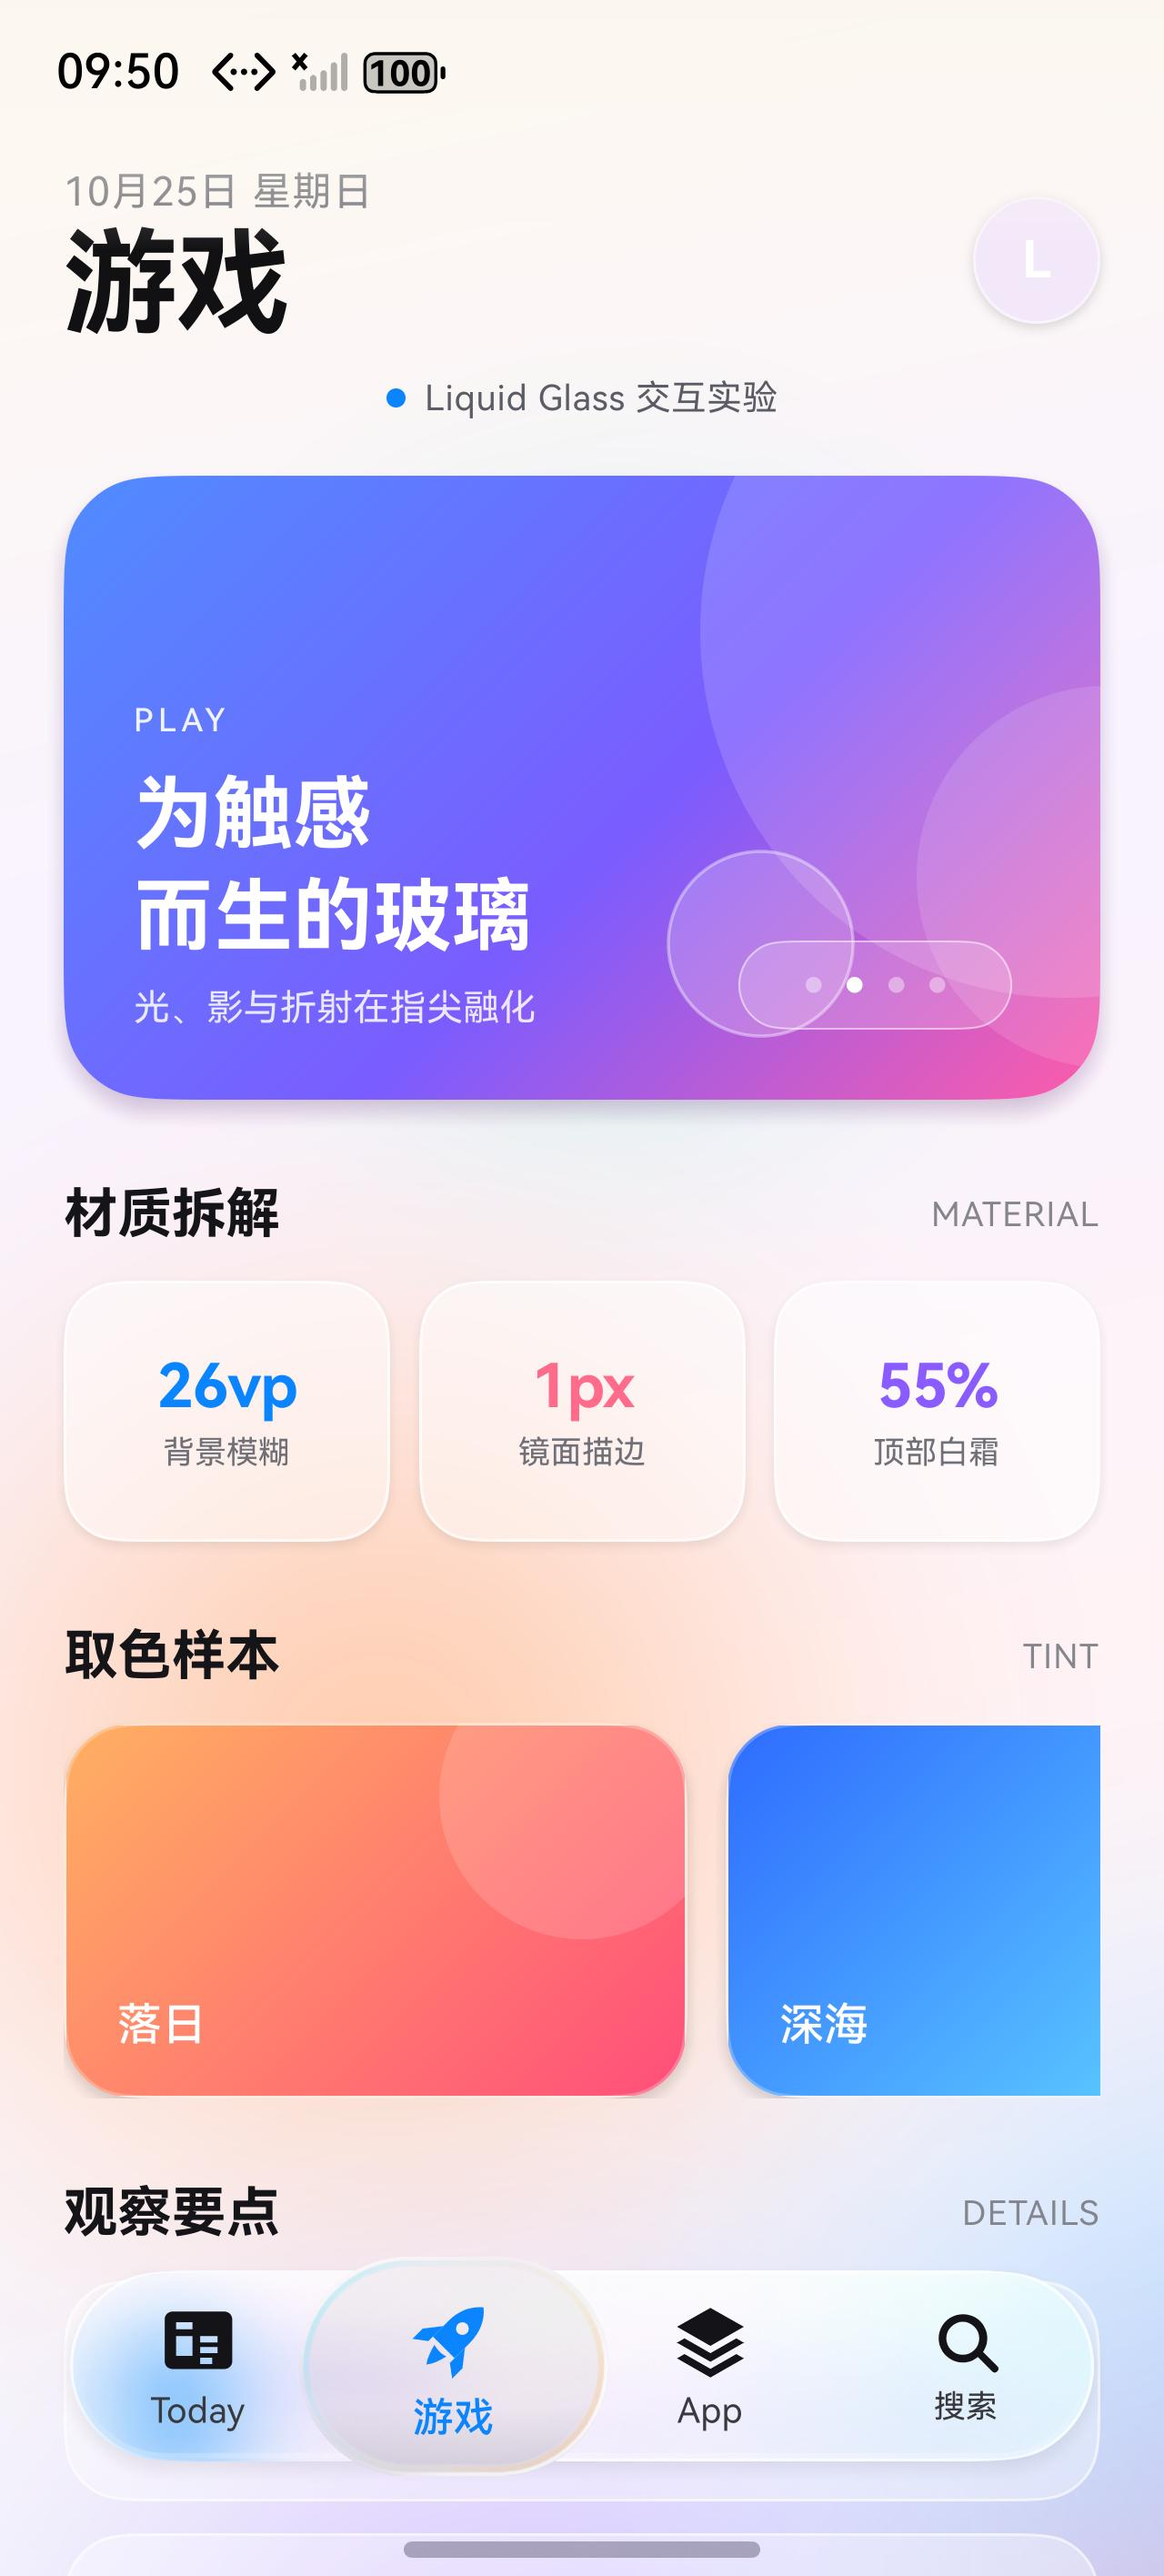
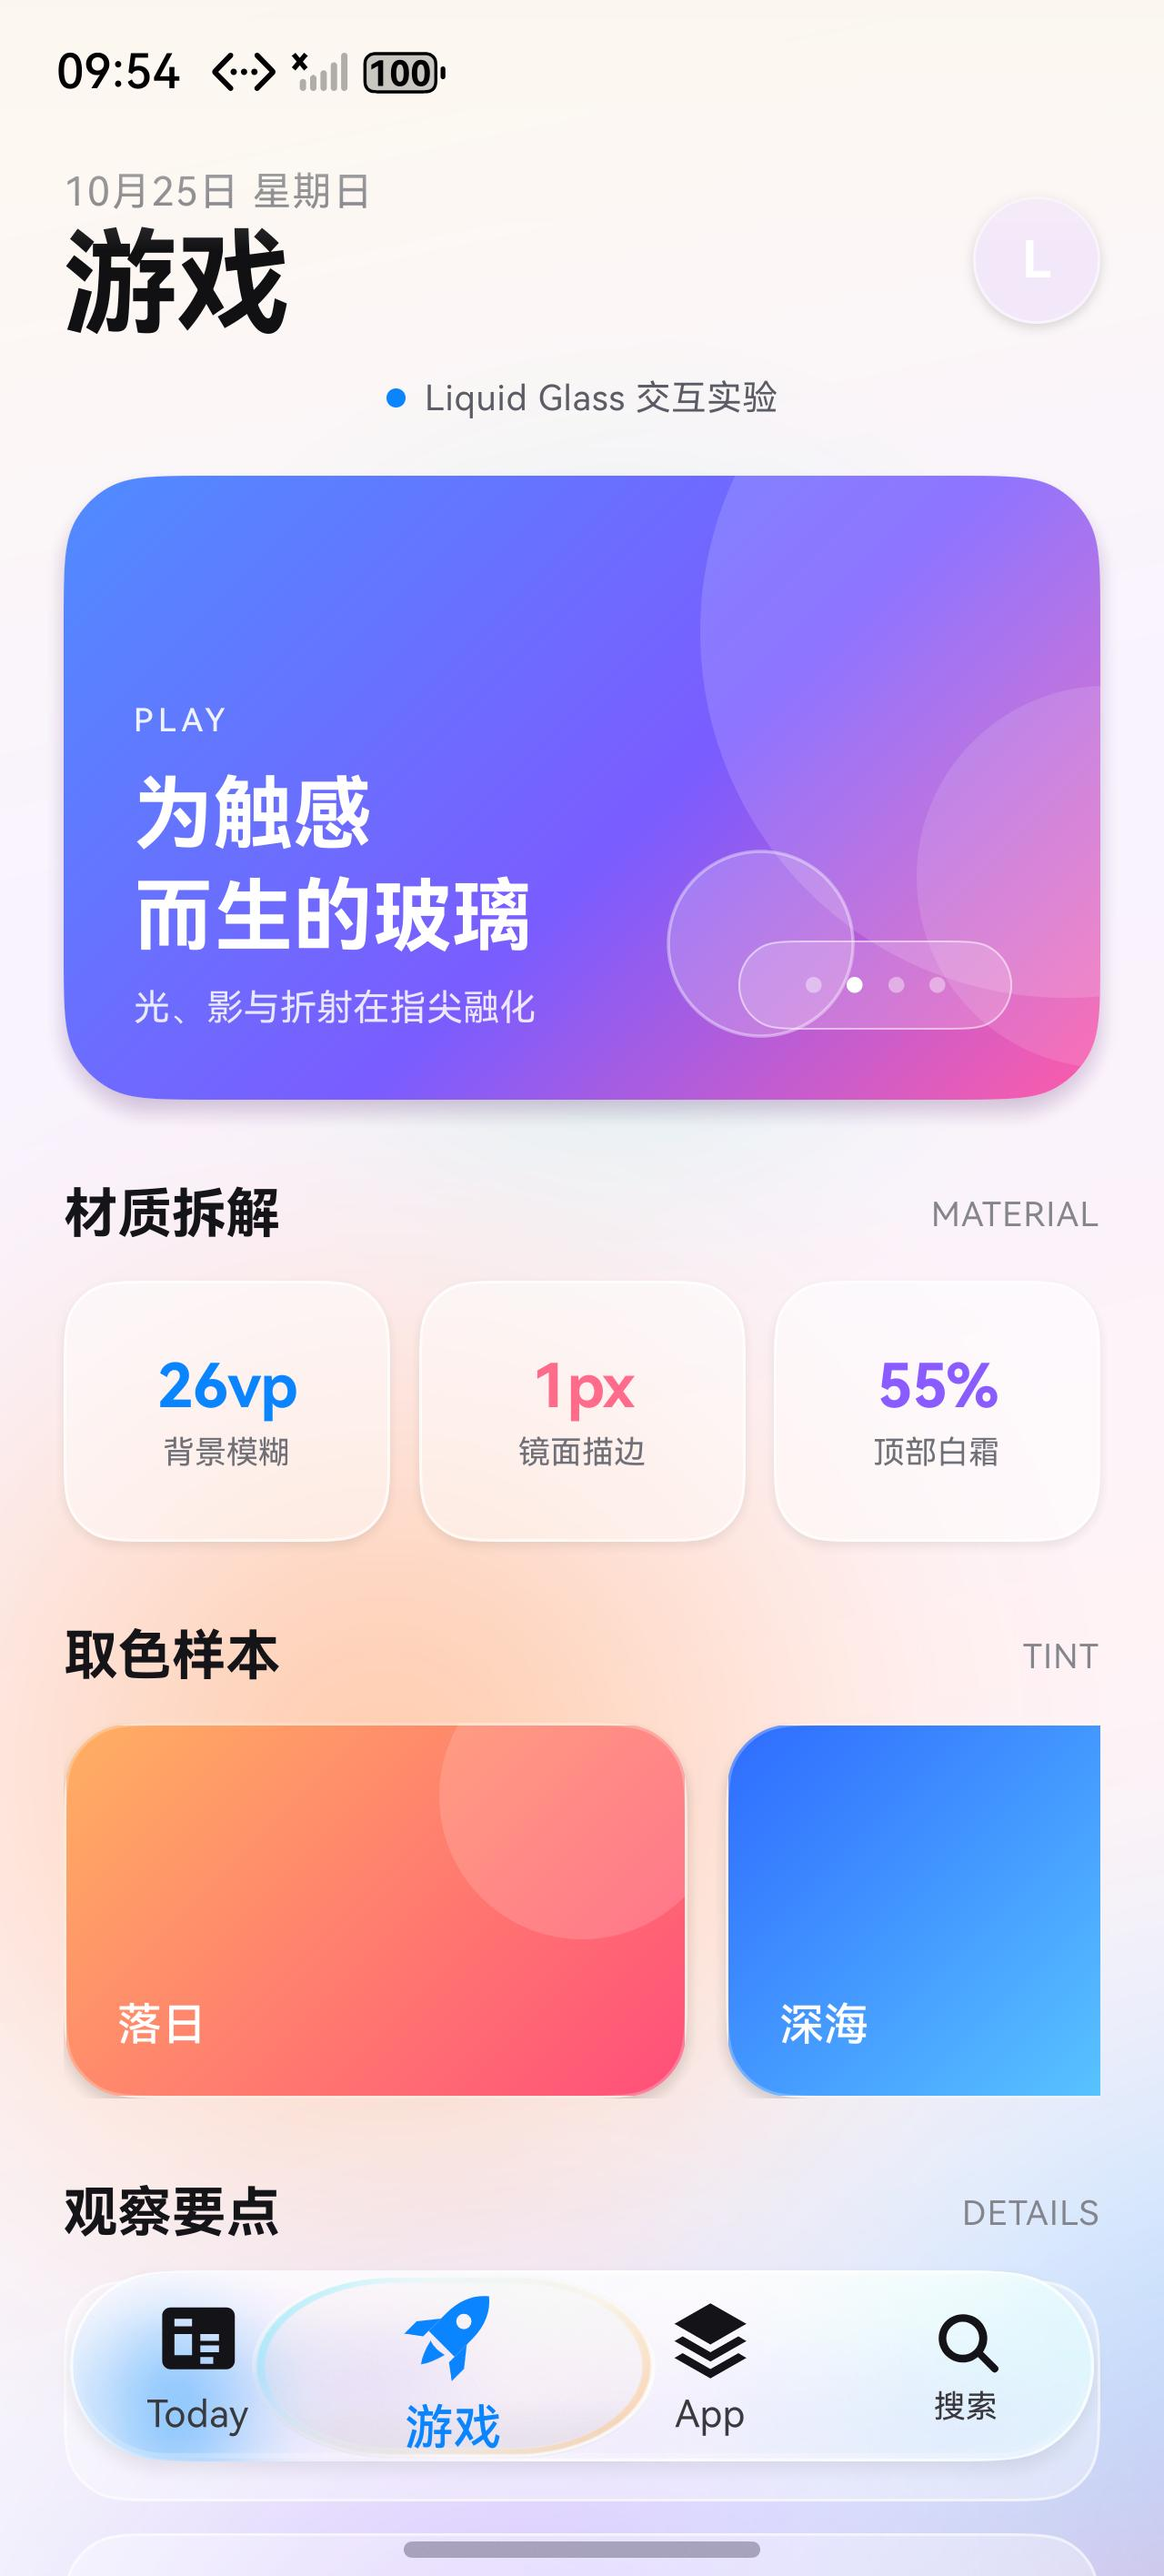
feat: match the reference lens proportions and glass
- widen the bloom to 1.72x and keep its height at 1.12x
- clear out the lens fill and strengthen the rim dispersion
- magnify only the tab icons up to 1.5x; keep the bar body fixed
- add a frame-by-frame analysis and video/code comparison

diff --git a/docs/frame-by-frame.md b/docs/frame-by-frame.md
@@ -1,0 +1,151 @@
+# 逐帧拆解：视频里的液态玻璃导航栏 vs 当前实现
+
+> 视频：`ScreenRecording_10-25-2026 19-48-45_1.MP4`，828 × 1792，60fps，19.25s
+> 取样：1.80s–2.60s，共 48 帧（60fps），裁切底部导航栏
+> 代码：[LiquidTabBar.ets](../entry/src/main/ets/components/LiquidTabBar.ets)、[GlassRim.ets](../entry/src/main/ets/components/GlassRim.ets)
+
+![参考与当前实现](compare-lens.png)
+
+---
+
+## 1. 关键帧时间线
+
+| 时间 | 帧 | 状态 | 透镜尺寸（px / pt） | 说明 |
+| --- | --- | --- | --- | --- |
+| 1.80s | f_001 | Today 选中 | 167 × 102 / 83.5 × 51 | 静止透镜，收在栏内 |
+| ≈2.10s | f_019 | Today，开始膨胀 | ≈230 × 104 / 115 × 52 | 中心开始变宽，图标开始变大 |
+| 2.283s | f_030 | Today，膨胀峰值附近 | ≈280 × 105 / 140 × 52.5 | 透镜横跨 Today + 游戏，Today 仍蓝 |
+| 2.383s | f_036 | Today → 游戏 之间 | ≈285 × 108 / 142.5 × 54 | 透镜继续变宽，Today 文字被盖住 |
+| 2.483s | f_042 | 游戏 选中 | ≈290 × 110 / 145 × 55 | 透镜落到游戏，游戏变蓝，边缘出现青/琥珀色散 |
+| 2.583s | f_048 | 游戏，回弹 | ≈220 × 104 / 110 × 52 | 透镜收窄，准备回到静止尺寸 |
+
+![Today 侧膨胀峰值](reference/frame-bloom.jpg)
+![游戏侧透镜峰值](reference/frame-lens.jpg)
+
+---
+
+## 2. 视频里真正发生了什么
+
+### 2.1 透镜主要是“变长”，不是“变高”
+
+这是最容易做错的一点。按 2x 像素测量：
+
+- 静止透镜：**83.5 × 51 pt**（约占标签宽 90%，栏高 85%）
+- 峰值透镜：**≈145 × 55 pt**（约占标签宽 156%，栏高 92%）
+
+即：
+
+- **长度增加 ≈ 74%**
+- **高度只增加 ≈ 8%**
+
+视频里看起来“很高”的部分，很大一块是透镜外部的**柔光/模糊晕染**，不是玻璃本体。玻璃本体在峰值时仍基本收在 60pt 的栏高内，只轻微顶到上下边缘。
+
+### 2.2 导航栏本体不动
+
+视频中栏体始终是 **370 × 60 pt**，左右 22pt 留边、圆角 30pt。放大只发生在透镜和透镜下的图标/文字，栏体本身没有缩放。
+
+### 2.3 透镜是“清玻璃”，不是白色胶囊
+
+- 透镜中心接近透明，能透出下方栏体和图标；
+- 边缘是一圈很薄的亮白描边；
+- 紧贴图标和圆弧的地方有明显**青 / 蓝 / 琥珀**色散；
+- 透镜比它所在的栏体更“清透”，栏体本身反而更奶白（顶部白霜更重）。
+
+### 2.4 图标在透镜下被放大
+
+视频里 Today、游戏的图标与文字在透镜下明显变大，约 **1.4–1.5×**；页面内容不参与缩放。
+
+### 2.5 页面内容不被放大
+
+栏体后面的卡片、文字只被玻璃**模糊 + 取色**，没有跟着透镜一起放大。放大只作用于导航栏自身的图标/文字。
+
+### 2.6 动效节奏
+
+- 膨胀：约 **0.15–0.2s**
+- 从 Today 流到游戏：约 **0.2–0.3s**，途中保持宽而扁的形态
+- 回弹：约 **0.3–0.5s**
+- 整体是一次短促的“鼓起 → 流过去 → 收窄”，不是长时间悬停。
+
+---
+
+## 3. 当前代码的对应实现
+
+| 特征 | 视频 | 当前实现 |
+| --- | --- | --- |
+| 栏体 | 370 × 60 pt，左右 22pt | 322 × 60 vp，左右 22vp（屏幕 366vp） |
+| 静止透镜 | 83.5 × 51 pt | 72.5 × 51 vp（占标签 90%、栏高 85%） |
+| 峰值透镜 | ≈145 × 55 pt | 124.7 × 57.1 vp（X 1.72 / Y 1.12） |
+| 长度增长 | +74% | +72% |
+| 高度增长 | +8% | +12% |
+| 栏体缩放 | 无 | 无（已移除 `barScale`） |
+| 透镜材质 | 清玻璃 + 亮边 + 色散 | 低白量清玻璃 + `GlassRim` 色散 |
+| 图标放大 | ≈1.4–1.5× | 最高 1.5×（按到透镜中心距离衰减） |
+| 页面内容 | 不放大 | 不放大 |
+| 色散 | 青 / 琥珀，贴近图标与边缘 | `GlassRim` 青→琥珀描边，透明度 0.68 / 0.62 |
+
+### 3.1 透镜几何
+
+```ts
+const ITEM_GAP: number = 8;      // 静止透镜宽 = tabW - 8
+bubbleH = barH - 9;              // 51vp
+
+// 点击 / 按住
+this.bloomX = 1.72;              // 横向拉长
+this.bloomY = 1.12;              // 只轻微增高
+```
+
+峰值尺寸：
+
+- 宽：`72.5 × 1.72 ≈ 124.7vp`（标签的 1.55 倍）
+- 高：`51 × 1.12 ≈ 57.1vp`（栏高的 0.95 倍）
+
+### 3.2 清玻璃透镜
+
+透镜的填充被压到很低：
+
+- 白色高光：顶部 15%、底部 12%
+- 烟熏色：3%
+- 背景模糊：半径 6
+
+这样透镜中心能透出栏体与图标，保留视频里的“清玻璃”感，同时不会变成完全透明。
+
+### 3.3 图标放大
+
+```ts
+private itemMagnify(index: number): number {
+  // 距离透镜中心越近，放大越多，最中心约 1.5×
+  return 1 + influence * bloom * 0.50;
+}
+```
+
+只作用于 `TabItem` 的图标和文字，栏体本身与页面内容都不缩放。
+
+### 3.4 边缘色散
+
+`GlassRim` 在透镜边缘画一圈青 → 透明的描边，再叠琥珀色；峰值时透明度 0.68 / 0.62，线宽 1.5。
+
+![按住：宽而扁的透镜 + 图标放大](screenshots/bar-hold-compare.png)
+
+---
+
+## 4. 仍然存在的差异
+
+1. **真实折射**：视频里透镜下的图标会被轻微弯折，并在图标周围产生彩色拖影；ArkUI API 20 没有背景位移/自定义 fragment shader，当前用“图标放大 + 边缘色散”近似，图标本身仍是清晰的。
+2. **字体**：HarmonyOS Sans vs SF Pro。
+3. **图标尺寸**：当前 23vp，视频约 20pt；这是之前“图标大一点”的需求保留，若严格按视频可降到 20–21vp。
+4. **栏宽**：当前 322vp / 366vp（88%），视频 370pt / 414pt（89.4%），比例接近，但绝对留边略大。
+
+---
+
+## 5. 复现取样
+
+```bash
+ffmpeg -ss 1.8 -t 0.8 -i input.mp4 \
+  -vf "fps=60,crop=828:260:0:1490" -q:v 2 frames/f_%03d.jpg
+```
+
+对应关键帧：
+
+- `f_030.jpg`：2.283s，Today 侧膨胀峰值
+- `f_042.jpg`：2.483s，游戏侧透镜峰值
+- `f_048.jpg`：2.583s，回弹

diff --git a/docs/analysis.md b/docs/analysis.md
@@ -123,8 +123,8 @@ ui.animateTo({
 
 // 膨胀
 ui.animateTo({ duration: 170, curve: Curve.EaseOut }, () => {
-  this.bloomX = 1.35;
-  this.bloomY = 1.35;
+  this.bloomX = 1.72;
+  this.bloomY = 1.12;
   this.glow = 0.95;
 });
 
@@ -151,7 +151,7 @@ ui.animateTo({
 
 膨胀过程中，玻璃填充、内阴影与描边保持与静止时相同的透明度，不随放大而变淡或变透明；放大后只是同一块玻璃变得更大。
 
-**放大只作用于导航栏自身**：四个 TabItem 的图标与文字会根据其到气泡中心的距离放大（约 1.0–1.3×），栏后的页面内容不缩放，只保留玻璃的背景模糊与取色。这样气泡像一枚盖在导航栏上的透镜，而不是放大页面内容。
+**放大只作用于导航栏自身**：四个 TabItem 的图标与文字会根据其到气泡中心的距离放大（约 1.0–1.5×），栏后的页面内容不缩放，只保留玻璃的背景模糊与取色。这样气泡像一枚盖在导航栏上的透镜，而不是放大页面内容。
 
 ![iOS 27 选中透镜瞬间](reference/ios-bar-lens.jpg)
 
@@ -162,16 +162,16 @@ ui.animateTo({
 | 阶段 | 时长 | 曲线 | 说明 |
 | --- | --- | --- | --- |
 | 按下 | 130 ms | EaseOut | 图标轻微缩小（0.95），标签和图标变蓝 |
-| 按住 | 260 ms | spring(0.32, 0.78) | **导航栏不缩放，选中气泡 1.45×**，明显高出、长出栏体 |
+| 按住 | 260 ms | spring(0.32, 0.78) | **导航栏不缩放，选中气泡横向 1.72× / 纵向 1.12×** |
 | 拖动 | 实时 | — | `bubbleX` 跟随手指，不吸附标签；松手落到最近标签 |
 | 松开 | 360 ms | spring(0.42, 0.86) | 整条栏回弹到 1.0 |
-| 透镜膨胀 | 170 ms | EaseOut | 1.35 × 1.35，明显高出、长出栏体；填充与描边保持不变 |
-| 最大膨胀 | 与膨胀同步 | — | 清晰度与静止时一致；导航栏图标/文字放大 1.0–1.3×，页面内容不缩放 |
+| 透镜膨胀 | 170 ms | EaseOut | 横向 1.72× / 纵向 1.12×（宽而扁）；填充与描边保持不变 |
+| 最大膨胀 | 与膨胀同步 | — | 清晰度与静止时一致；导航栏图标/文字放大 1.0–1.5×，页面内容不缩放 |
 | 透镜位移 | 640 ms | spring(0.42, 0.7) | 带过冲，途中保持膨胀 |
 | 透镜回弹 | 520 ms | spring(0.52, 0.82) | 回到 1.0，bloom 淡出 |
 | 内容切换 | 即时 | — | 标题、主视觉、主题色切换 |
 
-按住时导航栏本体保持原尺寸，选中透镜以 1.45× 膨胀（约 72.5 vp 高、102 vp 长），上下与左右都会明显超出栏体；玻璃填充与描边保持原样，放大前后清晰度一致，不会变透明。气泡下的导航栏图标/文字按到气泡中心的距离放大 1.0–1.3×，页面内容保持原尺寸。
+按住时导航栏本体保持原尺寸，选中透镜**横向 1.72×、纵向 1.12×**（约 124.7 vp 长、57.1 vp 高），主要横向拉长、高度基本收在栏内；玻璃填充与描边保持原样，放大前后清晰度一致，不会变透明。气泡下的导航栏图标/文字按到气泡中心的距离放大 1.0–1.5×，页面内容保持原尺寸。
 
 ![按住放大对照](screenshots/bar-hold-compare.png)
 
@@ -221,7 +221,7 @@ Stack
 细节：
 
 - 栏体 `60 vp` 高，`322 vp` 宽（屏幕宽 − 44），两端半径 30。
-- 选中透镜 `72.5 × 50 vp`，横向内缩 5 vp。
+- 选中透镜 `72.5 × 51 vp`（`ITEM_GAP = 8`），横向内缩 4 vp。
 - 图标 23 vp，文字 10 fp，选中色 `#0A84FF`。
 - 背景光晕与透镜都用 PNG 预渲染，避免运行时光晕出现色带或黑边。
 
@@ -232,8 +232,8 @@ Stack
 ```ts
 // 按下：导航栏本体不动，选中气泡大幅膨胀，保持到松手
 ui.animateTo({ duration: 320, curve: curves.springMotion(0.34, 0.7) }, () => {
-  this.bloomX = 1.45;
-  this.bloomY = 1.45;
+  this.bloomX = 1.72;
+  this.bloomY = 1.12;
   this.glow = 1;
 });
 ```

diff --git a/README.md b/README.md
@@ -28,7 +28,7 @@
 | 彩色背景 | 预渲染 PNG 光斑，缓慢漂移 |
 | 沉浸式 | 全屏 + `getWindowAvoidArea` 安全区 |
 
-选中切换：透镜先在 170 ms 内膨胀到 `1.35 × 1.35`，明显高出、长出导航栏；放大前后保持相同的玻璃填充、描边与清晰度，不会因为放大而变透明。**只放大导航栏自身的图标与文字**，栏后的页面内容不缩放，只保留玻璃的模糊与取色。
+选中切换：透镜在 170 ms 内**横向拉长到 `1.72×`、纵向只增高到 `1.12×`**，形成视频里宽而扁的透镜；放大前后保持相同的玻璃填充、描边与清晰度，不会变透明。**只放大导航栏自身的图标与文字**，栏后的页面内容不缩放。
 
 ## 目录
 
@@ -46,7 +46,7 @@ entry/src/main/resources/base/media/
 └── glow_white.png                  # 切换 bloom
 ```
 
-详细拆解、尺寸测量、动效参数与还原度对照见 **[docs/analysis.md](docs/analysis.md)**。
+详细拆解、尺寸测量、动效参数与还原度对照见 **[docs/analysis.md](docs/analysis.md)**；逐帧对照见 **[docs/frame-by-frame.md](docs/frame-by-frame.md)**。
 
 ## 运行
 
@@ -67,7 +67,7 @@ hdc -t 127.0.0.1:5555 shell aa start \
 
 - 上下滚动：把彩色卡片滑到导航栏下方，观察取色、模糊与高光变化。
 - 点击四个标签：观察透镜的膨胀、弹射和回弹。
-- 按住标签不松手：**导航栏本身不放大**，选中气泡膨胀到 **1.45×**；气泡放大前后清晰度一致，不会变透明。**气泡下的导航栏图标/文字会随位置放大 1.0–1.3×，栏后的页面内容不缩放**；松开后气泡回弹并切页。
+- 按住标签不松手：**导航栏本身不放大**，选中气泡**横向 1.72×、纵向 1.12×**；放大前后清晰度一致，不会变透明。**气泡下的导航栏图标/文字会随位置放大 1.0–1.5×，栏后的页面内容不缩放**；松开后气泡回弹并切页。
 - 按住后左右拖动：气泡连续跟手流动，不在标签之间吸附；松手落到最近的标签。
 
 ![按住拖动，气泡跟手流动](docs/screenshots/bar-drag.jpg)
